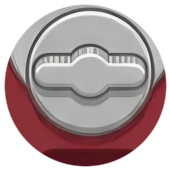
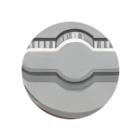
Fix the gumball knob overlay carrying a ring of red along as it spins
The knob crop (radius 80) included a wide margin of the surrounding
red base color meant to blend seamlessly at rest, but that whole ring
rotates with it during the spin animation - looking like a chunk of
the base was spinning loose. Radially sampled outward from the knob's
center to find the actual silver-to-red edge (consistently ~44-50px
across clean angles) and re-cropped tight to just the mechanical disc
at radius 48, confirmed red-free by compositing it onto a solid red
test background. Resized the overlay element to match (80px -> 70px)
and repositioned it so it still sits pixel-aligned over the base
image's own knob at rest.

Verified against the live app: idle alignment is unchanged (no seam),
and the mid-spin frame no longer shows any red moving with the dial.

Claude-Session: https://claude.ai/code/session_01WcnMHXCnjksfvrZ4RXcXcy

diff --git a/index.html b/index.html
@@ -332,7 +332,7 @@
      to sit exactly over the machine image's own (static) knob - spinning
      just this layer keeps "turn the dial" working without needing to spin
      the whole machine. */
-  .gacha-knob { position: absolute; left: 78px; top: 263px; width: 80px; height: 80px; z-index: 3; }
+  .gacha-knob { position: absolute; left: 83px; top: 268px; width: 70px; height: 70px; z-index: 3; }
   .gacha-knob.spin { animation: gachaSpin .9s cubic-bezier(.55,-0.3,.3,1.3); }
   @keyframes gachaSpin { from { transform: rotate(0deg); } to { transform: rotate(480deg); } }
   .gacha-coin-fly {
